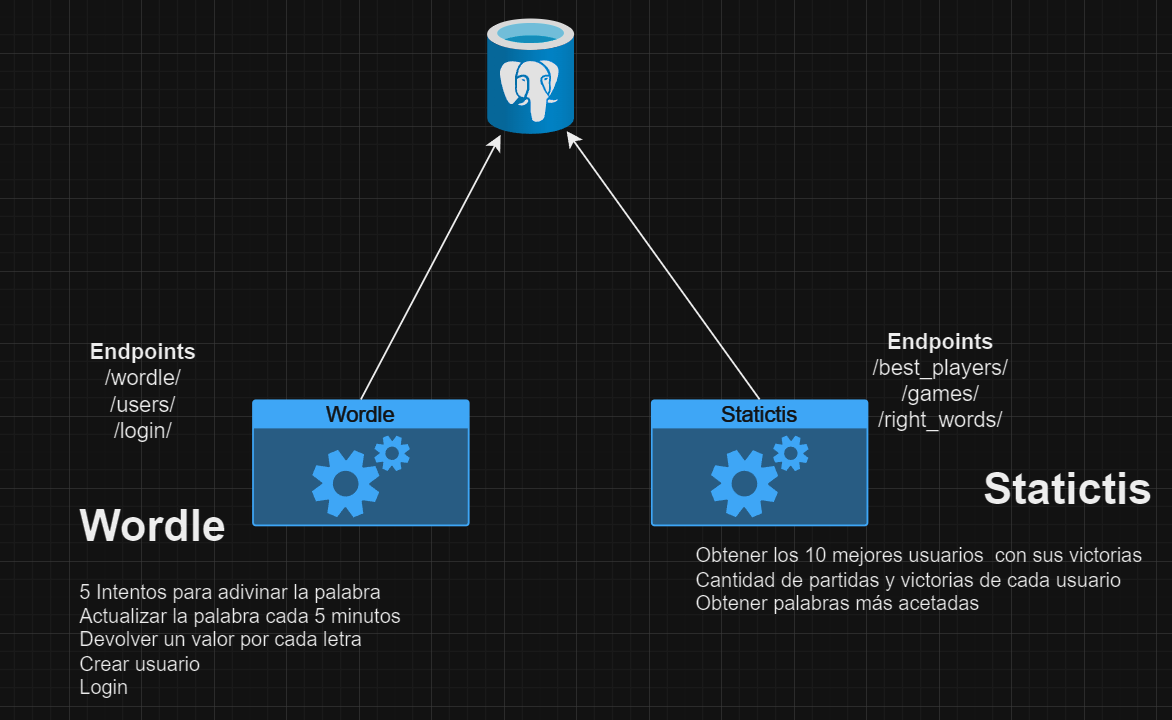
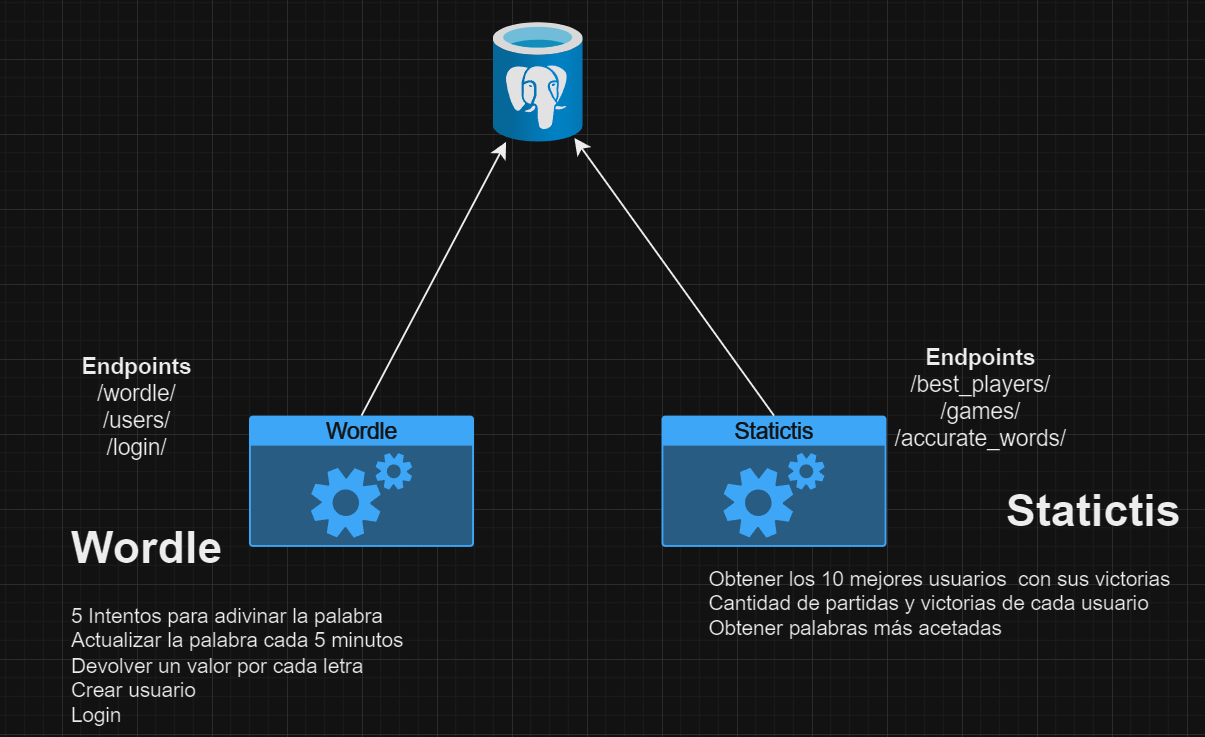
feat: endpoint to get the most accurate words

diff --git a/statictis/infra/rest/endpoints.py b/statictis/infra/rest/endpoints.py
@@ -1,0 +1,28 @@
+from fastapi import APIRouter, Depends
+from sqlalchemy.orm import Session
+from fastapi.responses import JSONResponse
+
+from statictis.app.accurate_words import AccurateWordsProcessor
+from common.infra.database import get_db
+from statictis.infra.repositories.statictis_repository import PostgresStatictisRepository
+from statictis.infra.models.accurate_words import ResultItem, ResultResponse
+
+router = APIRouter()
+
+
+@router.get('/accurate_words/', status_code=200)
+def get_accurate_Words(db: Session = Depends(get_db),):
+    postgres_statictis_repository = PostgresStatictisRepository(
+        db=db
+    )
+    accurate_words = AccurateWordsProcessor(
+        statictis_repository=postgres_statictis_repository
+    ).execute()
+
+
+    result = [ResultItem(name=name, count=count) for name, count in accurate_words]
+    respuesta = ResultResponse(results=result)
+
+    return JSONResponse(content=respuesta.dict())
+
+

diff --git a/statictis/infra/repositories/statictis_repository.py b/statictis/infra/repositories/statictis_repository.py
@@ -1,0 +1,21 @@
+from dataclasses import dataclass
+
+from statictis.domain.repositories.statictis_repository import IStatictisRepository
+from common.infra.models import Winners
+
+from sqlalchemy import func
+from sqlalchemy.orm import Session
+
+
+@dataclass
+class PostgresStatictisRepository(IStatictisRepository):
+
+    db: Session
+
+    def get_most_accurate_words(self):
+        return (
+            self.db.query(Winners.word, func.count().label('repetition_count'))
+            .group_by(Winners.word)
+            .having(func.count() > 2)
+            .order_by(func.count().desc())
+        ).all()

diff --git a/statictis/main.py b/statictis/main.py
@@ -2,14 +2,8 @@ from typing import Union
 
 from fastapi import FastAPI
 
+from statictis.infra.rest.endpoints import router as statictis_router
+
 app = FastAPI()
+app.include_router(statictis_router)
 
-
-@app.get("/")
-def read_root():
-    return {"Hello": "World statistics"}
-
-
-@app.get("/items/{item_id}")
-def read_item(item_id: int, q: Union[str, None] = None):
-    return {"item_id": item_id, "q": q}

diff --git a/statictis/app/accurate_words.py b/statictis/app/accurate_words.py
@@ -1,0 +1,11 @@
+from dataclasses import dataclass
+from typing import List
+
+from statictis.domain.repositories.statictis_repository import IStatictisRepository
+
+@dataclass
+class AccurateWordsProcessor:
+    statictis_repository: IStatictisRepository
+
+    def execute(self) -> List:
+        return self.statictis_repository.get_most_accurate_words()

diff --git a/statictis/infra/models/accurate_words.py b/statictis/infra/models/accurate_words.py
@@ -1,0 +1,10 @@
+from typing import List
+
+from pydantic import BaseModel
+
+class ResultItem(BaseModel):
+    name: str
+    count: int
+
+class ResultResponse(BaseModel):
+    results: List[ResultItem]

diff --git a/statictis/domain/repositories/statictis_repository.py b/statictis/domain/repositories/statictis_repository.py
@@ -1,0 +1,8 @@
+from abc import ABC, abstractmethod
+
+
+class IStatictisRepository(ABC):
+
+    @abstractmethod
+    def get_most_accurate_words(self):
+        raise NotImplementedError
